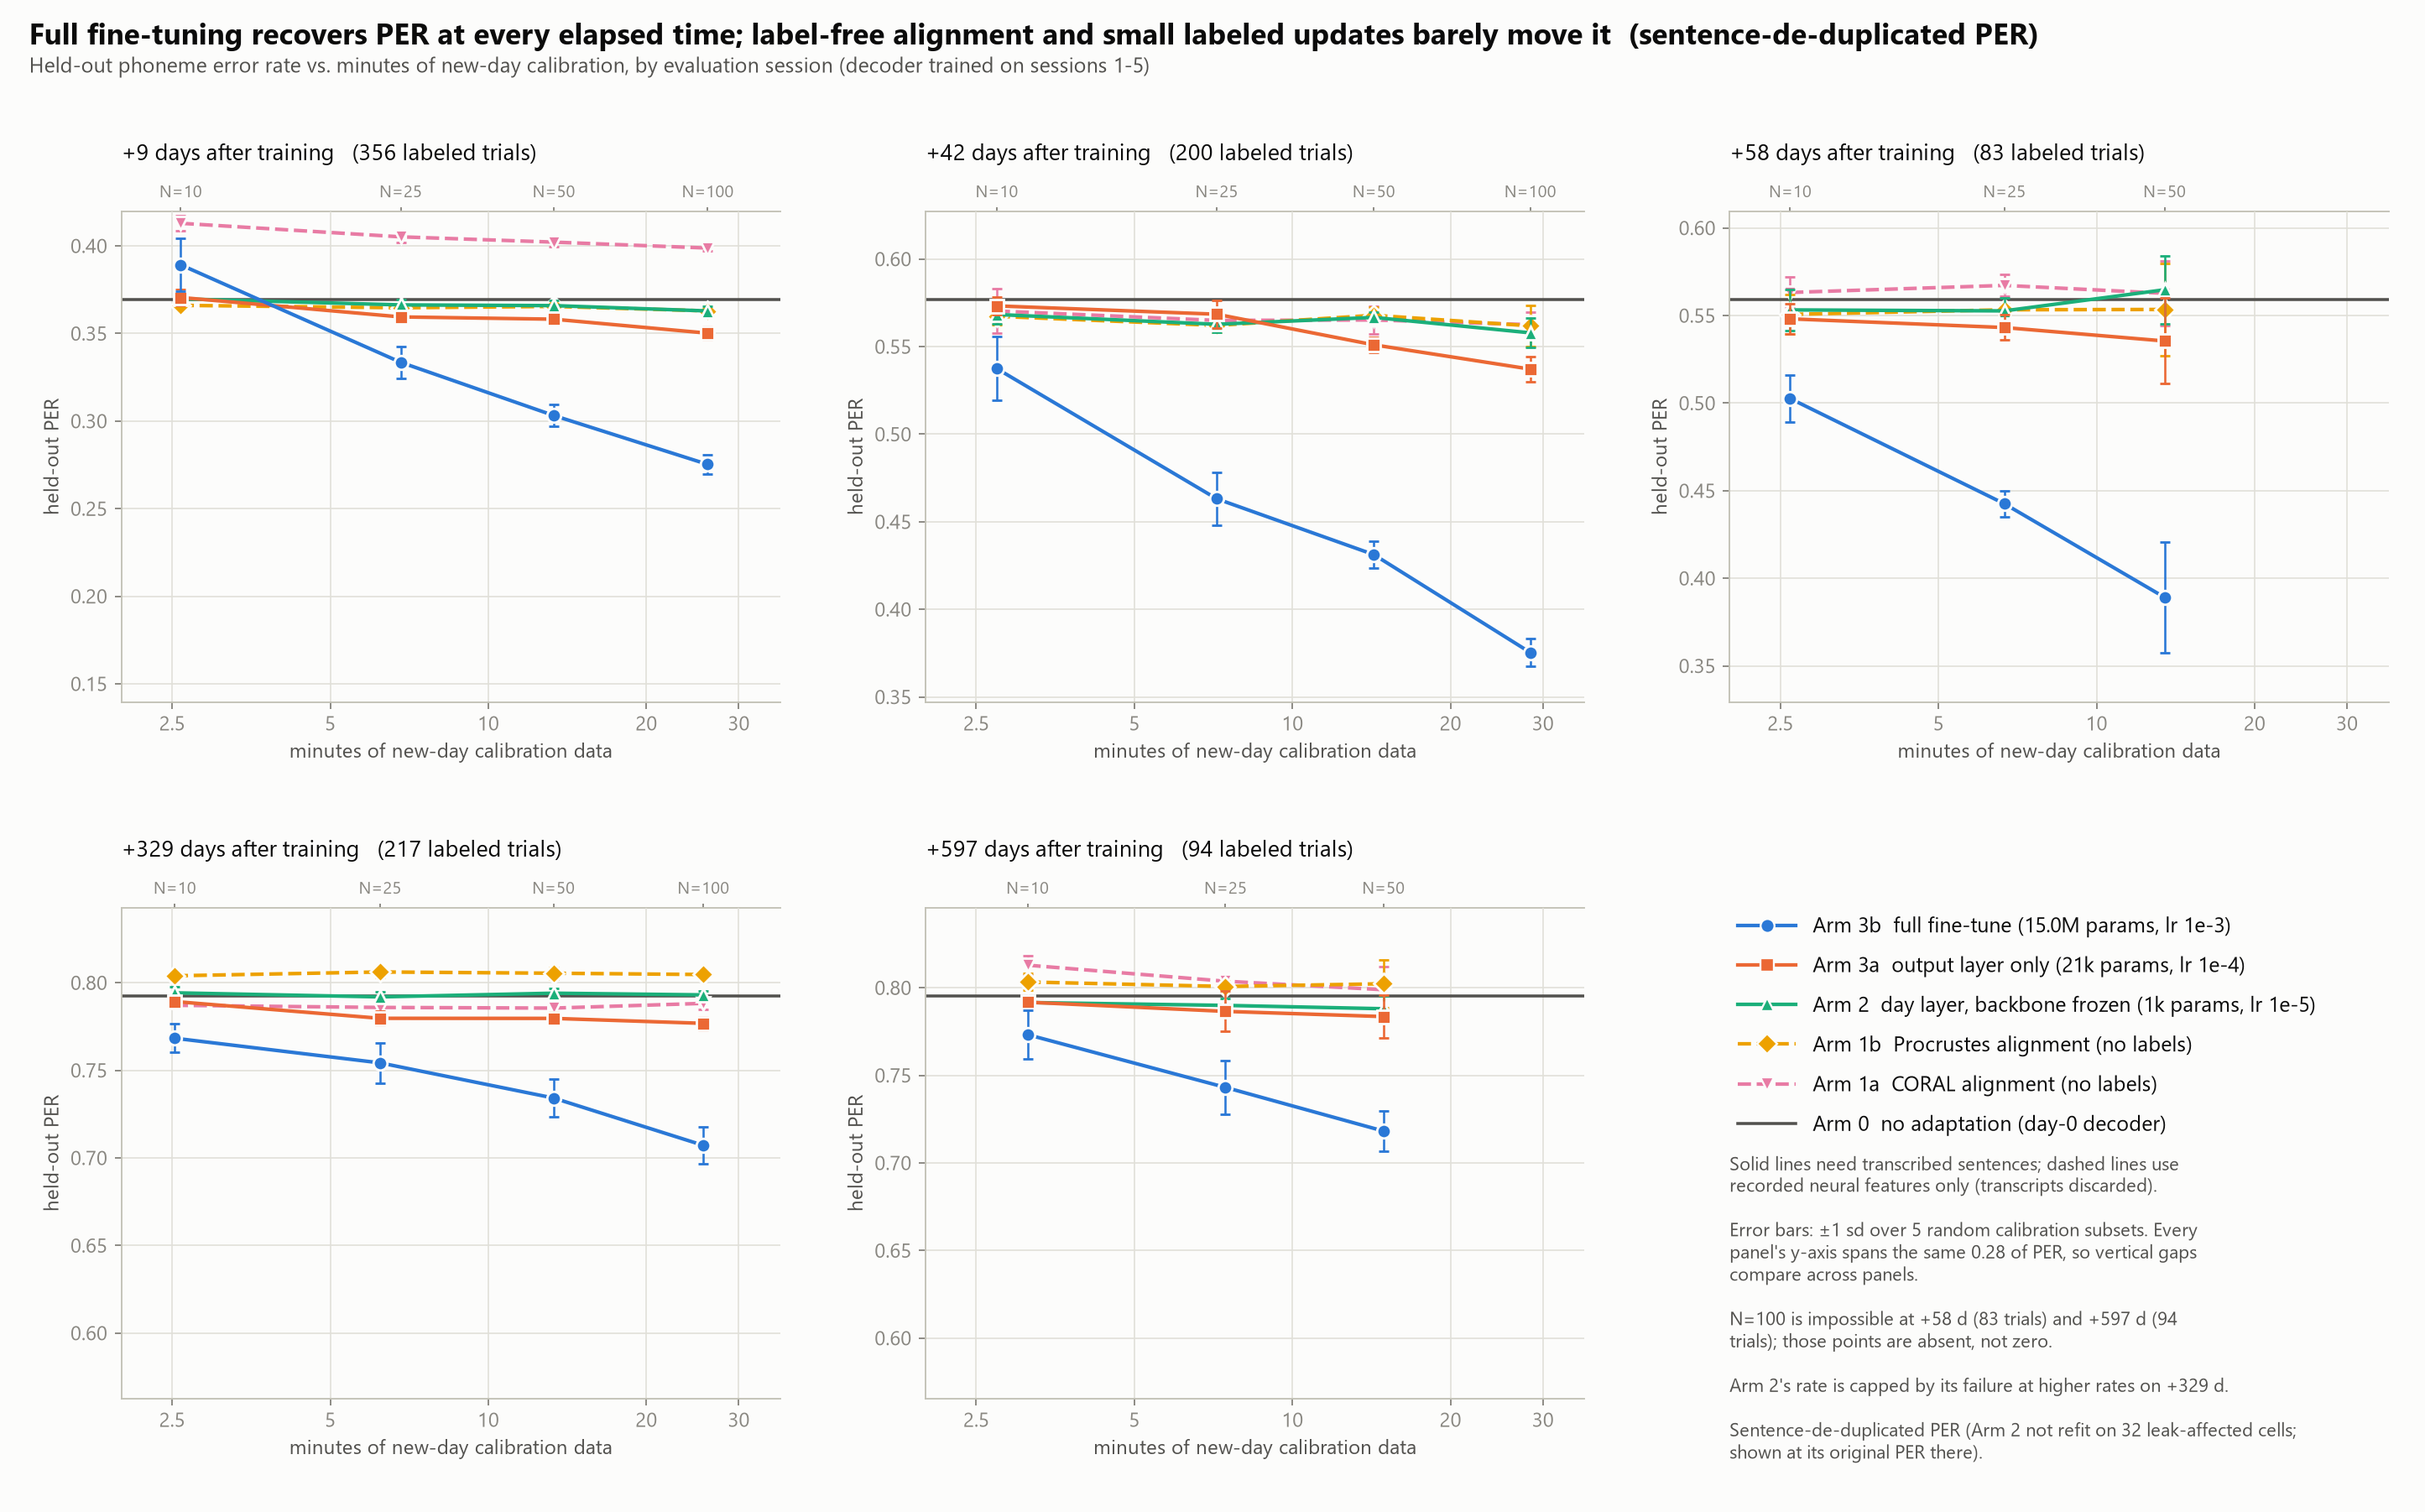
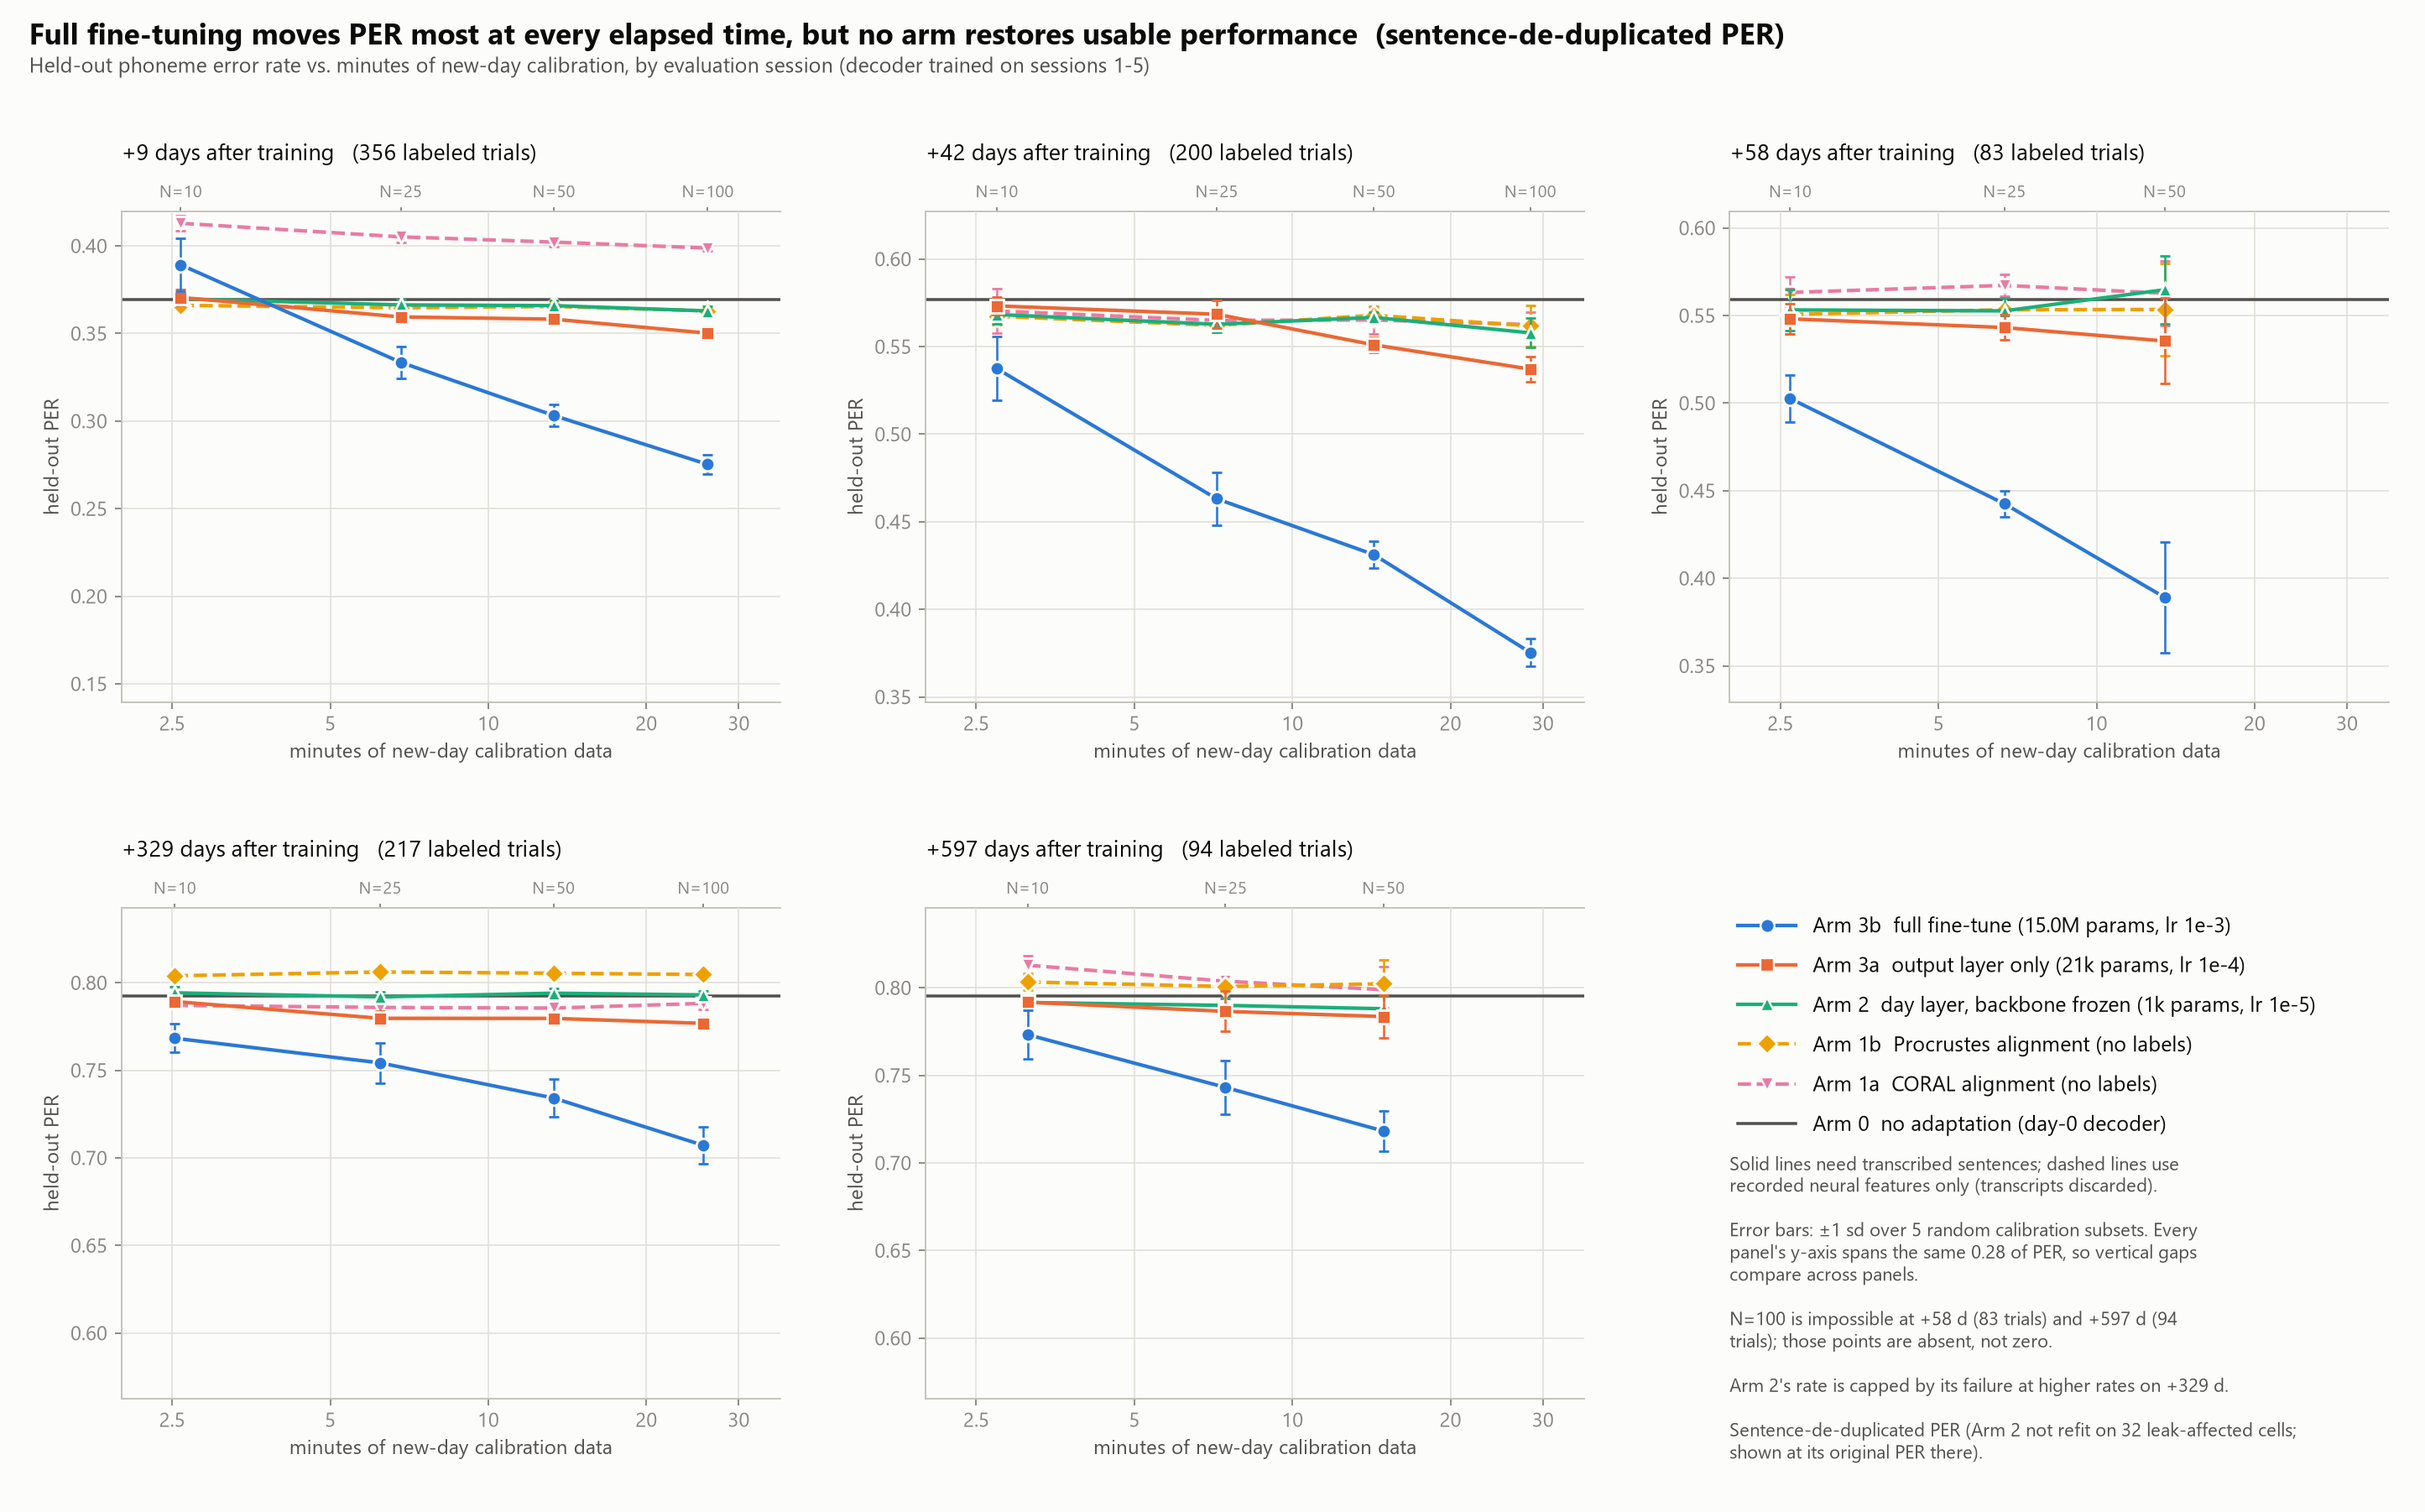
Second pass on the Viability reframe: stale Summary/Thesis wording, two captions
No numbers change and no experiments are rerun.

- docs/DESIGN.md: Summary's "attributes it to specific causes ... compares
  recalibration strategies under a fixed budget of participant time" was
  the retired overclaim-plus-Question-3 framing; collapsed into one line
  using the measured-changes/Viability wording section 1 already used.
  Section 1's Thesis paragraph (a near-duplicate of the Summary, explicitly
  pointing back to it) is deleted; the heading and its surrounding
  separators stay so cross-references don't break. Section 8's DataLoader
  bullet is split: the benchmarking rule stays as a one-line design
  decision, the account of violating it twice (already in docs/FINDINGS.md)
  is removed.
- README.md: headline-result paragraph no longer reads as a positive
  "recovers a large share" claim; states plainly that full fine-tuning
  never restores day-zero performance.
- tools/task3_make_figure.py + figures/recalibration_arms.png: suptitle
  changed from an arm-ranking framing ("recovers PER... barely move it")
  to "no arm restores usable performance", verified to fit the figure
  width before regenerating. No underlying data changed.

Second grep sweep (best use of / recalibration strategies / fixed budget
of participant or user time / wins at every / specific causes) found no
further unambiguous stale-framing hits in README.md or docs/DESIGN.md
beyond what's already fixed across this and the prior commit.

Changed region(s): [[0.1246, 0.0, 0.8408, 0.0311]]

diff --git a/tools/task3_make_figure.py b/tools/task3_make_figure.py
@@ -156,7 +156,7 @@ def main() -> None:
     ])
     lax.text(0.0, 0.50, NOTES, transform=lax.transAxes, fontsize=9.2, color=INK2, va="top", linespacing=1.3)
 
-    fig.suptitle("Full fine-tuning recovers PER at every elapsed time; label-free alignment and small labeled updates barely move it  (sentence-de-duplicated PER)",
+    fig.suptitle("Full fine-tuning moves PER most at every elapsed time, but no arm restores usable performance  (sentence-de-duplicated PER)",
                  x=0.012, y=0.985, ha="left", fontsize=15, fontweight="bold", color=INK)
     fig.text(0.012, 0.952, "Held-out phoneme error rate vs. minutes of new-day calibration, by evaluation session "
                            "(decoder trained on sessions 1-5)", fontsize=10.5, color=INK2, ha="left")

diff --git a/docs/DESIGN.md b/docs/DESIGN.md
@@ -6,9 +6,10 @@ records the dated empirical investigations behind these decisions.
 
 ## Summary
 
-Speech BCI decoders lose accuracy across days; this project measures that
-loss, attributes it to specific causes, and compares recalibration
-strategies under a fixed budget of participant time.
+Speech BCI decoders lose accuracy across days. This repo quantifies that
+loss, attributes it to specific changes in the recorded features, and
+tests whether a decoder frozen after early-session training can be
+rescued by labeled recalibration.
 
 - **Measurement**: how fast does PER degrade with days since calibration?
 - **Attribution**: settled (section 6). SNR loss, tuning change, and
@@ -31,11 +32,6 @@ check.
 ---
 
 ## 1. Thesis
-
-Speech BCI decoders lose accuracy across days; this repo quantifies the
-loss, attributes it to specific changes in the recorded features, and
-compares recalibration strategies under a fixed budget of user time (see
-Summary above for the one-paragraph version).
 
 ---
 
@@ -228,10 +224,9 @@ pretrained checkpoint has no held-out future and is useful only for validating o
   per epoch. **Cost, accepted deliberately:** batches are non-i.i.d. in
   sentence length, standard practice in speech recognition, not a bug.
 - **DataLoader: `num_workers=2`, `persistent_workers=True`, `pin_memory=True`.** Settled by a real SSD measurement:
-  wait is under 2% of epoch time at `num_workers >= 1`, GPU compute dominates. **Benchmarking rule, violated twice:** a synthetic
-  benchmark must match the real access pattern, real data dimensions, and cite its source for any measured parameter -- violated here (page-cache
-  hits, not real SSD reads) and by the GPU benchmark below (uncited `seq_len=527`) (`docs/FINDINGS.md`: "Storage medium, not DataLoader
-  configuration, was the training bottleneck").
+  wait is under 2% of epoch time at `num_workers >= 1`, GPU compute dominates. **Benchmarking rule:** a synthetic
+  benchmark must match the real access pattern, real data dimensions, and cite its source for any measured parameter
+  (`docs/FINDINGS.md`: "Storage medium, not DataLoader configuration, was the training bottleneck").
 - **Normalization is already applied upstream**: a rolling per-channel,
   per-sentence window, NOT per-block/session/global (`docs/DATASET.md`
   section 9 item 7). `data/normalize.py` must not implement its own.

diff --git a/README.md b/README.md
@@ -36,8 +36,9 @@ reproducible without the raw T15 data, see `figures/PROVENANCE.md`.)
 The decoder's accuracy collapses over the first five months and then
 holds roughly flat, replicated across all four independently-trained cut
 points (top, s05/s10/s15/s20). Full fine-tuning on a handful of new-day
-sentences recovers a large share of that loss early on, but its ceiling
-declines substantially over the same months (bottom, s05 only).
+sentences offsets part of that loss early on. It never restores
+day-zero performance, and its ceiling declines substantially over the
+same months (bottom, s05 only).
 The four s05 sessions below the 50-trial viability threshold (hollow
 markers, top) are shown rather than dropped; they sit on the same
 trajectory as their neighbors, so excluding them from the fitted
